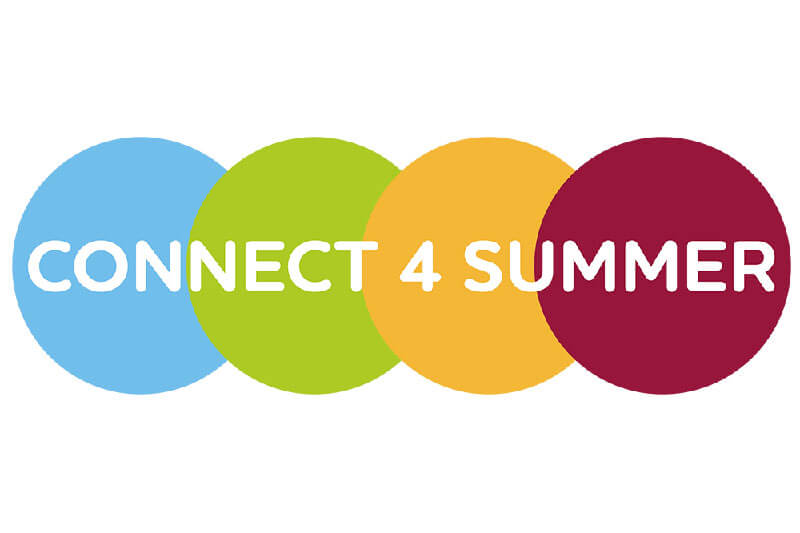
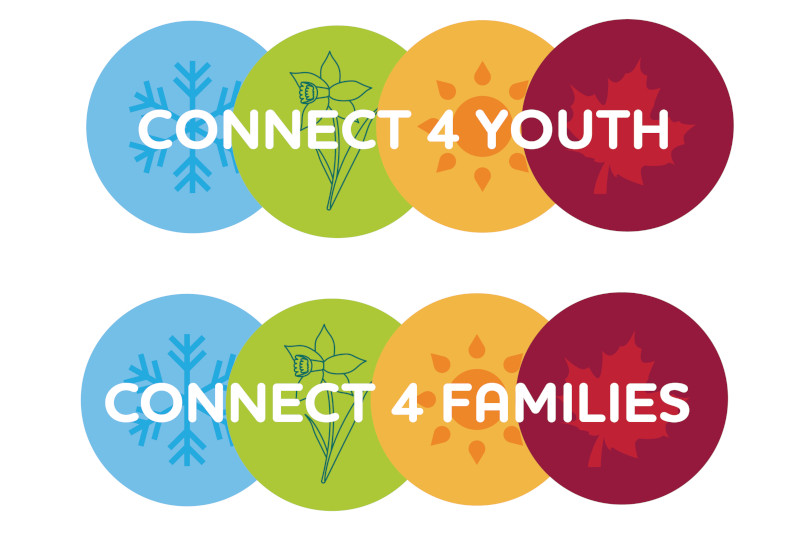
connect4 alterations

diff --git a/connect4summer.php b/connect4summer.php
@@ -13,8 +13,8 @@
 <header class="header-school">
     <div class="row">
         <div class="medium-8 large-8 columns">
-            <h1>Connect4Summer</h1>
-            <p class="text-capitalize">Childcare, Activties and Healthy Food</p>
+            <h1>Connect4Families &amp; Connect4Youth</h1>
+            <p class="text-capitalize">Holiday Activities and Healthy Food</p>
         </div>
     </div>
 </header>
@@ -23,30 +23,13 @@
 <section>
 	<div class="row">
 		<div class="columns">
-			<h2>What is Connect4Summer?</h2>
-			<p>In October 2019 the Department for Education published its invitation to bid for the local coordination of a free holiday provision fund which included activities and healthy food for disadvantaged children during 2020 summer holidays.</p>
-
-			<p>During the summer of 2019 Romsey Community School and Park Community School successfully bid and provided a programme which was very successful. Therefore, we bid for the Holiday Activities Fund in summer 2020 and were delighted to hear we had won the bid once again.</p>
-
-			<div class="row">
-				<div class="small-push-2 small-8 medium-push-2 medium-8 large-push-3 large-6 columns">
-					<img src="images/connect4summer/connect4summer_logo.png" alt="Connect4Summer Logo">
-				</div>
+			<h2>What is Connect 4 Families?</h2>
+			<p>Park Community School and Romsey Community School in partnership successfully bid to Hampshire County Council to receive Holiday Activity Funding 2021. The funding is to provide a programme of free holiday activities and healthy food for disadvantaged children during 2021 Easter holidays.</p>
+			<p>Our plans for 2021 are based on our experience in delivering this programme in 2019 and 2020 for the Department for Education. Our programme provides enriching activities for children and also for the parents through our Family Fun Days. The venues are throughout Hampshire in many different areas and venues.</p>
+			<div class="small-push-2 small-8 medium-push-2 medium-8 large-push-3 large-6 columns">
+					<img src="images/connect4summer/connect4families_logo.png" alt="Connect 4 Families">
 			</div>
-			<br>
-
-			<p>The project for 2020 was based on the pilot year and was expanded to include more venues in Hampshire, Portsmouth, Southampton and the Isle of Wight.</p>
-
-			<p>The programme ran in 50 venues and includes a range of sports activities, healthy cooking classes for children and their parents or carers, as well as additional support for our most vulnerable families who are in need.</p>
-
-			<div class="small-offset-2 small-8 text-center">
-				<div class="flex-video widescreen border-radius-5">
-					<iframe src="https://player.vimeo.com/video/446392942" frameborder="0" allow="autoplay; fullscreen" allowfullscreen></iframe>
-				</div>
-			</div>
-
 			<br><br>
-			
 		</div>
 	</div>
 </section>			
@@ -57,23 +40,12 @@
     </div>
 	<div class="row">
 		<div class="columns">
-			<h2>Connect4Summer 2020 - Review</h2>
-			<p>Connect4Summer has been successful for its second year, and we are extremely proud of the joy and happiness we have managed to bring to families while helping with mental health issues raised by COVID-19.</p>
-			<p>We have been able to bring a 20-day programme to venues around Hampshire, Portsmouth, Southampton and Isle of Wight while maintaining government guidelines.</p>
-			<p>Please take the time to view our Connect4Summer 2020 review, and we'd like to thank all the 420+ employed to make this fantastic event possible once again.</p>
-
-            <div class="small-offset-2 small-8 text-center">
-				<div class="flex-video widescreen border-radius-5">
-					<iframe src="https://player.vimeo.com/video/451756772" frameborder="0" allow="autoplay; fullscreen" allowfullscreen></iframe>
-				</div>
+			<h2>What is Connect 4 Youth?</h2>
+			<p>2021 will see an expansion of this programme, based on our achievements in 2020. We will be providing activity days for 11-16 year olds. We engage specialists in many fields to provide new experiences and activities specific for this age.</p>
+			<div class="small-push-2 small-8 medium-push-2 medium-8 large-push-3 large-6 columns">
+					<img src="images/connect4summer/connect4youth_logo.png" alt="Connect 4 Youth">
 			</div>
-
-			<div class="text-center">
-                  <a href="/assets/connect4summer/connect4summer2020_review.pdf" target="_blank" class="button success radius">View the Full Review</a>
-                </div>
-		
 			<br><br>
-			
 		</div>
 	</div>
 </section>
@@ -84,22 +56,19 @@
     </div>
 	<div class="row">
 		<div class="columns">
-			<div class="row">
-				<h2>Connect4Summer 2019 - Review</h2>
-				<p>We are really proud of what we have achieved, 17 organisations have provided free daily child care and 21 organisations have provided free family fun days for 20 days and the feedback from parents has been tremendous.</p>
-
-				<div class="small-offset-2 small-8 text-center">
-					<div class="text-center flex-video widescreen border-radius-5">
-	                    <iframe src="https://player.vimeo.com/video/368249167" frameborder="0" allow="autoplay; fullscreen" allowfullscreen></iframe>
-	                </div>
-	            </div>
-
-				<div class="text-center">
-                  <a href="/assets/connect4summer/connect4summer2019_review.pdf" target="_blank" class="button success radius">View the Full Review</a>
-                </div>
-
-                <br><br>
-				
+			<h2>Connect4Summer 2020 - Review</h2>
+			<p>Connect4Summer has been successful for its second year, and we are extremely proud of the joy and happiness we have managed to bring to families while helping with mental health issues raised by COVID-19.</p>
+			<p>We have been able to bring a 20-day programme to venues around Hampshire, Portsmouth, Southampton and Isle of Wight while maintaining government guidelines.</p>
+			<p>Please take the time to view our Connect4Summer 2020 review, and we'd like to thank all the 420+ employed to make this fantastic event possible once again.</p>
+            <div class="small-offset-2 small-8 text-center">
+				<div class="flex-video widescreen border-radius-5">
+					<iframe src="https://player.vimeo.com/video/451756772" frameborder="0" allow="autoplay; fullscreen" allowfullscreen></iframe>
+				</div>
+			</div>
+			<div class="text-center">
+                <a href="/assets/connect4summer/connect4summer2020_review.pdf" target="_blank" class="button success radius">View the Full Review</a>
+            </div>		
+			<br><br>		
 		</div>
 	</div>
 </section>
@@ -110,51 +79,29 @@
     </div>
 	<div class="row">
 		<div class="columns">
-			<h2>Connect4Summer in the News</h2>
-
-
-				<div class="columns small-12 medium-12 large-6 text-center">
-					<div class="flex-video widescreen border-radius-5">
-						<p>BBC South Today - 2019</p>
-						<iframe src="https://player.vimeo.com/video/349615481" frameborder="0" allow="autoplay; fullscreen" allowfullscreen></iframe>
-					</div>
+			<h2>Connect4Summer 2019 - Review</h2>
+			<p>We are really proud of what we have achieved, 17 organisations have provided free daily child care and 21 organisations have provided free family fun days for 20 days and the feedback from parents has been tremendous.</p>
+			<div class="small-offset-2 small-8 text-center">
+				<div class="text-center flex-video widescreen border-radius-5">
+					<iframe src="https://player.vimeo.com/video/368249167" frameborder="0" allow="autoplay; fullscreen" allowfullscreen></iframe>
 				</div>
-
-				<div class="columns small-12 medium-12 large-6 text-center">
-					<div class="flex-video widescreen border-radius-5">
-						<p>2019</p>
-						<iframe src="https://player.vimeo.com/video/349452617" frameborder="0" allow="autoplay; fullscreen" allowfullscreen></iframe>
-					</div>
-				</div>
-
 			</div>
-
-	<br><hr>
-
-	<div class="row">
-		<div class="columns">
-			<h2>Connect4Summer on the Radio</h2>
-			<p>BBC Radio Solent's Julian Glegg talking with Susan Parish about the Connect4Summer scheme.</p>
 			<div class="text-center">
-				<audio src="assets/connect4summer/radio.mp3" controls>
-				</audio>
+				<a href="/assets/connect4summer/connect4summer2019_review.pdf" target="_blank" class="button success radius">View the Full Review</a>
 			</div>
+			<br><br>
 		</div>
-	</div>
+	</div>		
+</section>
 
-	<br><hr>
-
+<section>
 	<div class="row">
-		<div class="columns">
-			<h2>Press Release - Minister announces funding awarded to Park Community and Romsey Community Schools</h2>
-			<p>News that a joint funding bid by Park Community School in Havant and Romsey Community School in Havant has been successful has been warmly welcomed.</p>
-			<p>On 8 May 2019, Children and Families Minister, Nadhim Zahawi, announced that 11 coordinators will receive a share of £9.1m funding to provide 50,000 disadvantaged children with free meals and activities over the upcoming summer holidays.</p>
-			<p>The Havant and Romsey schools are being given a grant to co-ordinate a programme called ‘Connect4Summer’ for children in 23 venues across Hampshire, including Portsmouth and Southampton.</p>
-			<p>Connect4Summer will be providing an exciting programme that will include a range of sports activities, healthy cooking classes for children and their parents or carers, as well as additional support for our most vulnerable families who are in need.</p>
-			<p>Headteacher of Park Community School, Christopher Anders, said: <em>“We are very excited and delighted to be involved in this large project supporting families with holiday child care and family fun days.”</em></p>
-			<p>Headteacher Jonathan de Sausmarez of Romsey Community School said <em>“I am really pleased that the need for vulnerable families to have support and care over the summer holidays has been recognised. We want to make a real difference and we are very proud to support this much needed project.”</em></p>
-			<p>Both Community Managers of each school, Susan Parish (Park Community School) and Jan Lefley (Romsey Community School) reported that they wanted to provide a programme that has a future legacy, that engages families and provides them with opportunities after the summer to continue with a variety of activities. Susan said <em>“It is very important to us that we continue to address holiday hunger and this programme enables us to reach large numbers of children and their families. We will also be able to offer children good quality, exciting activities and new opportunities whilst ensuring they are safe throughout the holidays.”</em></p>
-			<br>
+        <div class="small-centered large-1 column text-center hr-logo grey-bg"></div>
+    </div>
+	<div class="row">
+		<div class="column">
+			<h2>Contact</h2>
+			<p>Please visit our website at: <a href="//connect4.org.uk/">Connect4.org.uk</a></p>
 			<p>For further details please contact:</p>
 			<ul>Susan Parish, Park Community School
 				<li>Email: <a href="mailto:S.Parish@pcs.hants.sch.uk">S.Parish@pcs.hants.sch.uk</a></li>
@@ -165,22 +112,6 @@
 				<li>Email: <a href="mailto:JLefley@romsey.hants.sch.uk">JLefley@romsey.hants.sch.uk</a></li>
 				<li>Tel: 01794522106</li>
 			</ul>
-			<br><br>
-		</div>
-	</div>
-			<br><br>	
-		</div>
-	</div>
-</section>
-
-<section>
-	<div class="row">
-        <div class="small-centered large-1 column text-center hr-logo grey-bg"></div>
-    </div>
-	<div class="row">
-		<div class="column">
-			<h2>Summer MUNCH at Park</h2>
-			<p>Our holiday <a href="/munch.php">MUNCH</a> meals continue to provide a free 2 course meal for children attending any school in Leigh Park, parents and carers are also welcome, whose curent circumstances might mean that receiving a free meal is necessary. - <strong>Excludes Bank Holidays</strong></p>
 			<br><br>
 		</div>
 	</div>

diff --git a/index.php b/index.php
@@ -323,7 +323,7 @@
                 <li>
                     <div class="menu-box"><a href="/connect4summer.php">
                             <img src="images/index/connect4summer.jpg" alt="Connect4Summer">
-                            <p>Connect4Summer</p>
+                            <p>Connect4Families &amp; Connect4Youth</p>
                         </a></div>
                 </li>
                 <li>
